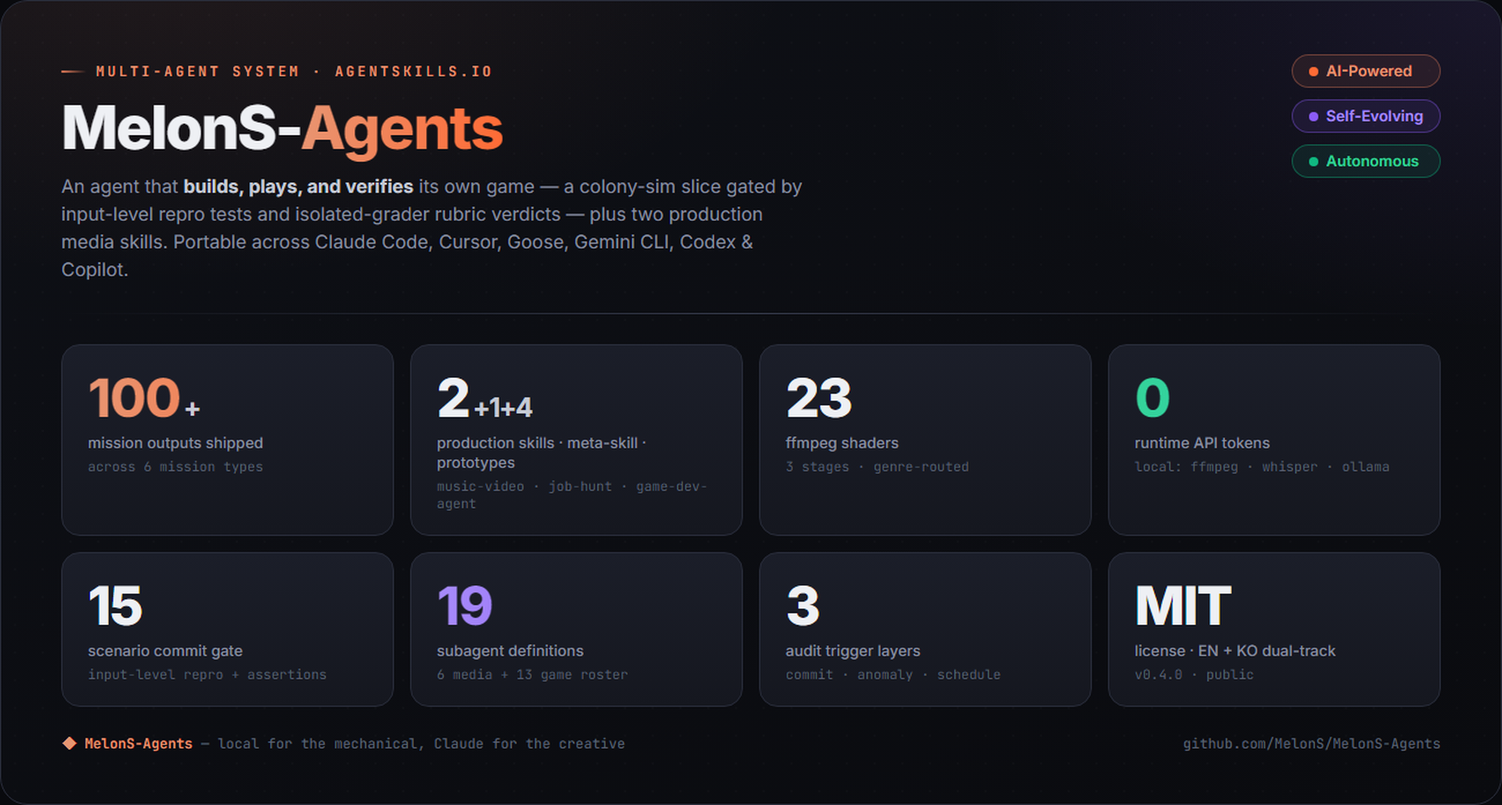
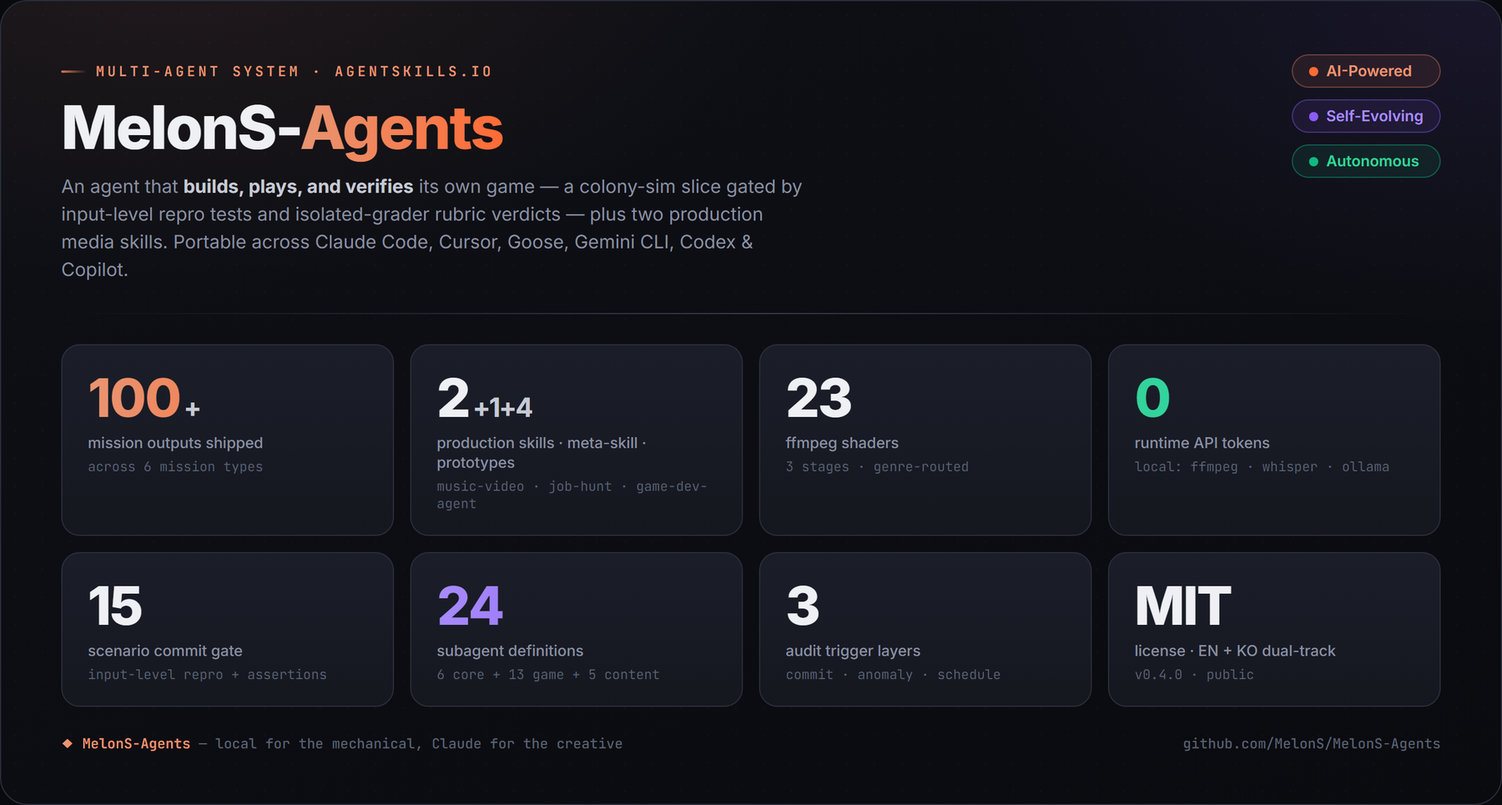
docs(readme): correct stale counts + surface content-shorts (EN+KO+site)
The 2026-07-01 README rewrite missed the content-shorts pipeline added in
the prior commit, leaving several stale numbers. This pass ground-truths
every claim against the repo.

- subagent count 19 -> 24 in README, site, and the regenerated hero-stats
  image (EN+KO). The 5 content-shorts team agents (content-director,
  research/production/legal/release-team) existed but were never counted.
- add an In-development row for the content-shorts pipeline (info/news/idol,
  4-team legal-gated) to "What works today" + a Documentation-table link.
- music-video grades: "seven" -> six (the 7th profile is a neutral no-op).
- auditor design-note now names all 3 triggers (L1 post-commit hook /
  L2 15-min poll / L3 daily 03:00), consistent with the "3 audit layers".
- retarget the "known gaps" link: known-limitations.md is a one-item
  resolved log, not a tradeoffs catalog -> point negatives/out-of-scope at
  the game-prototype README and relabel the doc-table row.
- site: enrichment utilities 5 -> 4 (matched its own 4-item list).

Verified MATCH and left unchanged: 23 shaders, 15-scenario gate, 11 job
sources, 9 case studies, 2 production skills, 3 audit layers, opus/sonnet
routing.

diff --git a/site/index.ko.html b/site/index.ko.html
@@ -103,9 +103,9 @@
       <span class="sub">입력 레벨 재현 + 어서션</span>
     </li>
     <li>
-      <span class="num purple">19</span>
+      <span class="num purple">24</span>
       <span class="label">서브에이전트 정의</span>
-      <span class="sub">미디어 6 + 게임 로스터 13</span>
+      <span class="sub">코어 6 + 게임 13 + 콘텐츠 5</span>
     </li>
     <li>
       <span class="num fg">3</span>
@@ -191,7 +191,7 @@
   <p>스캐폴드는 범용입니다 — 모든 스킬을 한 가지 shape으로 강요하지 않습니다. 숏폼 영상이 v1 도메인이었고(결과물이 눈에 보이고 실패 모드가 빨리 잡힘), 현재 개발 포커스는 <strong>게임 트랙</strong>(위 PawnSim 만들고-검증 루프)으로 <code>game-dev-agent</code> 메타 스킬이 구동합니다. 오늘 프로덕션 미디어 스킬 2종이 올라가 있습니다: <strong>music-video</strong> 미션과 standalone <strong>job-hunt</strong> 스킬. 이전 미션들(<strong>faceless-short</strong> 내레이션, v1 <strong>highlight / shorts-batch</strong>)은 대체 경로로 트리에 남아 있습니다.</p>
 
   <figure class="diagram">
-    <img src="assets/visuals/01-hero-stats-ko.png" width="1800" height="965" alt="MelonS-Agents 한눈에 보기 포스터: 자기 콜로니심 게임을 만들고 플레이하고 검증하는 에이전트, Claude Code·Cursor·Goose·Gemini CLI·Codex·Copilot 간 이식 가능. 스탯 카드: 미션 출력 100+(6타입), 프로덕션 스킬 2 + 메타 스킬 1 + 프로토타입 4, ffmpeg 쉐이더 23, 런타임 API 토큰 0, 15시나리오 커밋 게이트, 서브에이전트 정의 19(미디어 6 + 게임 로스터 13), 감사 트리거 레이어 3, MIT 라이선스 / EN + KO 듀얼 트랙." loading="lazy" decoding="async">
+    <img src="assets/visuals/01-hero-stats-ko.png" width="1800" height="965" alt="MelonS-Agents 한눈에 보기 포스터: 자기 콜로니심 게임을 만들고 플레이하고 검증하는 에이전트, Claude Code·Cursor·Goose·Gemini CLI·Codex·Copilot 간 이식 가능. 스탯 카드: 미션 출력 100+(6타입), 프로덕션 스킬 2 + 메타 스킬 1 + 프로토타입 4, ffmpeg 쉐이더 23, 런타임 API 토큰 0, 15시나리오 커밋 게이트, 서브에이전트 정의 24(코어 6 + 게임 13 + 콘텐츠 5), 감사 트리거 레이어 3, MIT 라이선스 / EN + KO 듀얼 트랙." loading="lazy" decoding="async">
     <figcaption>시스템 한눈에 보기 — README · Overview</figcaption>
   </figure>
 
@@ -205,7 +205,7 @@
     <article class="card glow-gold">
       <h3>game-dev-agent (메타 스킬, Skill #3)</h3>
       <p>에디터 수작업 없이 게임 전체를 CLI 스캐폴딩하는 Unity 전용 에이전트입니다: 스프라이트 생성(32px 절차 아트), C# 시스템 스캐폴딩, Unity batchmode 씬 + 프리팹 생성, 밸런스 튜닝, 오디오 생성, 인게임 AI 디렉터. 이 에이전트가 경험적 검증 표면을 겸하는 <strong>프로토타입 스킬 4종</strong>을 구동합니다 — PawnSim(콜로니심 플래그십), 그리고 2D 물리 병합 퍼즐, 웨이브 생존 액션, 슬라이딩 타일 숫자 퍼즐 — 각각 앞 것보다 빠르게 만들어 "복리 가속" 가설을 테스트합니다.</p>
-      <p class="muted">게임 트랙은 6개 코어 미디어 파이프라인 에이전트 위에 13개 게임 도메인 서브에이전트(디렉터 / 디자이너 / 프로그래머 / 빌드 엔지니어 / QA / 아티스트 / 사운드 / 내러티브 / 스페셜리스트) 로스터를 따로 돌립니다 — <a href="https://github.com/MelonS/MelonS-Agents/tree/main/.claude/agents" target="_blank" rel="noopener">.claude/agents/</a>에 총 19개 에이전트 정의.</p>
+      <p class="muted">게임 트랙은 6개 코어 미디어 파이프라인 에이전트 위에 13개 게임 도메인 서브에이전트(디렉터 / 디자이너 / 프로그래머 / 빌드 엔지니어 / QA / 아티스트 / 사운드 / 내러티브 / 스페셜리스트) 로스터를, 그리고 content-shorts 파이프라인용 5개를 더 돌립니다 — <a href="https://github.com/MelonS/MelonS-Agents/tree/main/.claude/agents" target="_blank" rel="noopener">.claude/agents/</a>에 총 24개 에이전트 정의.</p>
     </article>
   </div>
 
@@ -314,7 +314,7 @@
         <li class="chip"><b>5,000+</b> raw → <b>~200</b> 매칭</li>
         <li class="chip">Shape B · standalone <code>curl+jq</code></li>
       </ul>
-      <p class="muted">Skill #2, standalone, v2 짧은 키워드 UX. 70개 테스트; <code>JH_*_LIVE</code> 플래그 뒤의 enrichment 유틸 5종. 스펙: <a href="https://github.com/MelonS/MelonS-Agents/tree/main/skills/job-hunt" target="_blank" rel="noopener">skills/job-hunt/</a></p>
+      <p class="muted">Skill #2, standalone, v2 짧은 키워드 UX. 70개 테스트; <code>JH_*_LIVE</code> 플래그 뒤의 enrichment 유틸 4종. 스펙: <a href="https://github.com/MelonS/MelonS-Agents/tree/main/skills/job-hunt" target="_blank" rel="noopener">skills/job-hunt/</a></p>
     </article>
 
     <article class="card skill-card glow-gold">
@@ -357,7 +357,7 @@
       <p>별도 shape 스킬: standalone(미션 라우팅 없음), v2 짧은 키워드 UX, agentskills.io 호환. <code>--seed "Problem Solver"</code>를 넘기면 오케스트레이터가 26 동의어 role family(Forward Deployed Engineer / Applied AI Engineer / Generalist / Founding Engineer / …)로 확장한 뒤 KR 잡보드(사람인 / 잡코리아 / 원티드 / 프로그래머스)에서 fetch합니다. 라이브 실행은 <strong>5,000+ raw 공고를 ~200 매칭으로</strong> 중복 제거합니다.</p>
       <ul>
         <li><b>소스 플러그인 11개</b>(키 없이 라이브 5, 키 게이팅 2, mock-fallback 4) — 기본은 전부 mock-fallback; 플러그인별 라이브 HTTP는 <code>JH_<i>SOURCE</i>_LIVE=1</code> 뒤.</li>
-        <li><b>enrichment 유틸 5종</b>(fit-score / cover-letter / company-research / interview-prep) — 공고별 Claude 호출은 <code>JH_<i>TOOL</i>_LIVE=1</code> 뒤.</li>
+        <li><b>enrichment 유틸 4종</b>(fit-score / cover-letter / company-research / interview-prep) — 공고별 Claude 호출은 <code>JH_<i>TOOL</i>_LIVE=1</code> 뒤.</li>
         <li><b>테스트 70개</b> — smoke + 엣지케이스 + JSON 스키마 검증. EN + KO 워크스루.</li>
       </ul>
       <p class="muted">퀵스타트: <code>skills/job-hunt/scripts/run.sh --seed "Problem Solver" --dry-run</code>. 레퍼런스 다이제스트: <a href="https://github.com/MelonS/MelonS-Agents/blob/main/docs/samples/job-hunt-digest-mock.md" target="_blank" rel="noopener">docs/samples/job-hunt-digest-mock.md</a>.</p>

diff --git a/site/index.html b/site/index.html
@@ -96,9 +96,9 @@
       <span class="sub">input-level repro + assertions</span>
     </li>
     <li>
-      <span class="num purple">19</span>
+      <span class="num purple">24</span>
       <span class="label">subagent definitions</span>
-      <span class="sub">6 media + 13 game roster</span>
+      <span class="sub">6 core + 13 game + 5 content</span>
     </li>
     <li>
       <span class="num fg">3</span>
@@ -184,7 +184,7 @@
   <p>The scaffold is general-purpose — it doesn't force every skill through one shape. Short-form video was the v1 domain (the deliverable is visually verifiable and failure modes are quick to catch); the current development focus is the <strong>game track</strong> (the PawnSim build-and-verify loop above), driven by a <code>game-dev-agent</code> meta-skill. Two production media skills ship today: the <strong>music-video</strong> mission and the standalone <strong>job-hunt</strong> skill. Earlier missions (<strong>faceless-short</strong> narration, v1 <strong>highlight / shorts-batch</strong>) remain in the tree as alternate paths.</p>
 
   <figure class="diagram">
-    <img src="assets/visuals/01-hero-stats.png" width="1800" height="965" alt="MelonS-Agents system-at-a-glance poster: an agent that builds, plays, and verifies its own colony-sim game, portable across Claude Code, Cursor, Goose, Gemini CLI, Codex and Copilot. Stat cards: 100+ mission outputs across 6 types, 2 production skills + 1 meta-skill + 4 prototypes, 23 ffmpeg shaders, 0 runtime API tokens, 15-scenario commit gate, 19 subagent definitions (6 media + 13 game roster), 3 audit trigger layers, MIT license / EN + KO dual-track." loading="lazy" decoding="async">
+    <img src="assets/visuals/01-hero-stats.png" width="1800" height="965" alt="MelonS-Agents system-at-a-glance poster: an agent that builds, plays, and verifies its own colony-sim game, portable across Claude Code, Cursor, Goose, Gemini CLI, Codex and Copilot. Stat cards: 100+ mission outputs across 6 types, 2 production skills + 1 meta-skill + 4 prototypes, 23 ffmpeg shaders, 0 runtime API tokens, 15-scenario commit gate, 24 subagent definitions (6 core + 13 game + 5 content), 3 audit trigger layers, MIT license / EN + KO dual-track." loading="lazy" decoding="async">
     <figcaption>The system at a glance — README · Overview</figcaption>
   </figure>
 
@@ -198,7 +198,7 @@
     <article class="card glow-gold">
       <h3>game-dev-agent (meta-skill, Skill #3)</h3>
       <p>A Unity-focused agent that CLI-scaffolds a whole game with no manual Editor work: sprite generation (32px procedural art), C# system scaffolding, scene + prefab generation via Unity batchmode, balance tuning, audio generation, and an in-game AI Director. It drives <strong>four prototype skills</strong> that double as its empirical validation surface — PawnSim (colony-sim flagship), plus a 2D physics-merge puzzle, a wave-survival action game, and a sliding-tile number puzzle — each built faster than the last, testing the "compounding speedup" hypothesis.</p>
-      <p class="muted">The game track runs a separate roster of 13 game-domain sub-agents (director / designer / programmer / build-engineer / QA / artist / sound / narrative / specialists) on top of the 6 core media-pipeline agents — 19 agent definitions total in <a href="https://github.com/MelonS/MelonS-Agents/tree/main/.claude/agents" target="_blank" rel="noopener">.claude/agents/</a>.</p>
+      <p class="muted">The game track runs a separate roster of 13 game-domain sub-agents (director / designer / programmer / build-engineer / QA / artist / sound / narrative / specialists) on top of the 6 core media-pipeline agents, plus 5 for the content-shorts pipeline — 24 agent definitions total in <a href="https://github.com/MelonS/MelonS-Agents/tree/main/.claude/agents" target="_blank" rel="noopener">.claude/agents/</a>.</p>
     </article>
   </div>
 
@@ -307,7 +307,7 @@
         <li class="chip"><b>5,000+</b> raw → <b>~200</b> matches</li>
         <li class="chip">Shape B · standalone <code>curl+jq</code></li>
       </ul>
-      <p class="muted">Skill #2, standalone, v2 short-keyword UX. 70 tests; 5 enrichment utilities behind <code>JH_*_LIVE</code> flags. Spec: <a href="https://github.com/MelonS/MelonS-Agents/tree/main/skills/job-hunt" target="_blank" rel="noopener">skills/job-hunt/</a></p>
+      <p class="muted">Skill #2, standalone, v2 short-keyword UX. 70 tests; 4 enrichment utilities behind <code>JH_*_LIVE</code> flags. Spec: <a href="https://github.com/MelonS/MelonS-Agents/tree/main/skills/job-hunt" target="_blank" rel="noopener">skills/job-hunt/</a></p>
     </article>
 
     <article class="card skill-card glow-gold">
@@ -350,7 +350,7 @@
       <p>A separate-shape skill: standalone (no missions-routed pipeline), v2 short-keyword UX, agentskills.io-compliant. Pass <code>--seed "Problem Solver"</code> and the orchestrator expands to a 26-synonym role family (Forward Deployed Engineer / Applied AI Engineer / Generalist / Founding Engineer / …) before fetching from KR job boards (사람인 / 잡코리아 / 원티드 / 프로그래머스). A live run de-dups <strong>5,000+ raw postings down to ~200 matches</strong>.</p>
       <ul>
         <li><b>11 source plugins</b> (5 live-ready without a key, 2 key-gated, 4 mock-fallback) — all mock-fallback by default; live HTTP per-plugin behind <code>JH_<i>SOURCE</i>_LIVE=1</code>.</li>
-        <li><b>5 enrichment utilities</b> (fit-score / cover-letter / company-research / interview-prep) — per-posting Claude calls behind <code>JH_<i>TOOL</i>_LIVE=1</code>.</li>
+        <li><b>4 enrichment utilities</b> (fit-score / cover-letter / company-research / interview-prep) — per-posting Claude calls behind <code>JH_<i>TOOL</i>_LIVE=1</code>.</li>
         <li><b>70 tests</b> — smoke + edge-case + JSON-schema validation. EN + KO walkthroughs.</li>
       </ul>
       <p class="muted">Quickstart: <code>skills/job-hunt/scripts/run.sh --seed "Problem Solver" --dry-run</code>. Reference digest at <a href="https://github.com/MelonS/MelonS-Agents/blob/main/docs/samples/job-hunt-digest-mock.md" target="_blank" rel="noopener">docs/samples/job-hunt-digest-mock.md</a>.</p>

diff --git a/README.ko.md b/README.ko.md
@@ -6,7 +6,7 @@
 
 **콜로니심 게임을 직접 만들고 — 그걸 플레이해서 자기 작업을 검증하는 AI 에이전트.**  실제 플레이어 클릭을 합성해 각 클릭이 (단지 클릭이 도달한 게 아니라) 실제로 게임 상태를 바꿨는지 어서트하고, 길게 무인으로 돌린 소크는 스크린샷과 로그만 보고 — 작성자의 의도는 절대 보지 않고 — 판정하는 별도 서브에이전트가 채점합니다.
 
-이 자기 검증 루프가 MelonS-Agents 의 척추입니다 — [Claude Code](https://docs.anthropic.com/claude-code) 로 구동되는 멀티 에이전트 시스템.  오늘 세 트랙이 돌아갑니다: 콜로니심 **PawnSim**(Windows + Unity, *개발 중*), 그리고 두 프로덕션 파이프라인 — **music-video** 메이커(음악 → 60초 9:16 쇼츠, Mac/Linux 에서 ~60초)와 **job-hunt** 다이제스트(키워드 하나 → 중복 제거된 한국 채용공고 요약, ~5초).  로컬 오픈소스 도구(ffmpeg / whisper.cpp / ollama / aubio)가 기계적 작업을 하고 Claude 는 오케스트레이션 + 창작 판단을 맡아 — 미션당 **런타임 API 토큰 0개**.  첫날부터 영어 + 한국어.
+이 자기 검증 루프가 MelonS-Agents 의 척추입니다 — [Claude Code](https://docs.anthropic.com/claude-code) 로 구동되는 멀티 에이전트 시스템.  콜로니심 **PawnSim**(Windows + Unity, *개발 중*)이 쇼케이스이고, 두 미디어 파이프라인은 이미 실제 결과물을 출하합니다 — **music-video** 메이커(음악 → 60초 9:16 쇼츠, Mac/Linux 에서 ~60초)와 **job-hunt** 다이제스트(키워드 하나 → 중복 제거된 한국 채용공고 요약, ~5초) — 여기에 세 번째로 저작권 검수를 거치는 **content-shorts** 파이프라인이 초기 개발 중입니다.  로컬 오픈소스 도구(ffmpeg / whisper.cpp / ollama / aubio)가 기계적 작업을 하고 Claude 는 오케스트레이션 + 창작 판단을 맡아 — 미션당 **런타임 API 토큰 0개**.  첫날부터 영어 + 한국어.
 
 [![main-protection](https://github.com/MelonS/MelonS-Agents/actions/workflows/main-protection.yml/badge.svg?branch=main)](https://github.com/MelonS/MelonS-Agents/actions/workflows/main-protection.yml)
 ![GitHub last commit](https://img.shields.io/github/last-commit/MelonS/MelonS-Agents?style=flat-square)
@@ -20,7 +20,7 @@
 
 </div>
 
-![MelonS-Agents — 숫자로 보기: 출력 100+, 프로덕션 스킬 2개, 쉐이더 23개, 런타임 API 토큰 0개, 15시나리오 게이트, 서브에이전트 19개, 감사 레이어 3개, MIT](docs/visuals/01-hero-stats-ko.png)
+![MelonS-Agents — 숫자로 보기: 출력 100+, 프로덕션 스킬 2개, 쉐이더 23개, 런타임 API 토큰 0개, 15시나리오 게이트, 서브에이전트 24개, 감사 레이어 3개, MIT](docs/visuals/01-hero-stats-ko.png)
 
 ## 지금 무엇이 되는가
 
@@ -29,6 +29,7 @@
 | **music-video** | 음악 → 60초 9:16 쇼츠 (비트 정렬 컷, 빈티지 ffmpeg 쉐이더) | 프로덕션\* | ✅ Mac/Linux — `./scripts/first-touch.sh`, ~60초 |
 | **job-hunt** | 시드 키워드 하나 → 중복 제거된 한국 채용공고 다이제스트 (소스 11개) | 프로덕션\* | ✅ ~5초, 네트워크·키 불필요 |
 | **PawnSim** · `game-dev-agent` 가 제작 | 자기 검증형 콜로니심 게임 프로토타입 | 개발 중 | ⚠ Windows + Unity 6000.0.75f1 |
+| **content-shorts** · 4팀 법률 게이트 파이프라인이 제작 | 주제 → 출처 확보·저작권 검수된 9:16 쇼츠 (정보/뉴스/아이돌 포맷) | 개발 중 | ⚠ end-to-end 작동(2026-07-01), Pexels 키 필요 |
 | **product-cf** | 제품 사진 → CF 스타일 쇼츠 | 보류 | ❌ 정직한 부정 결론으로 보류 |
 
 <sub>\*"프로덕션" = 정해진 주기로 실제 결과물을 출하 (이 둘이 핵심 카운트).  `game-dev-agent` 는 PawnSim 을 만드는 메타 스킬 — PawnSim 이 출하 주기에 도달하면 프로덕션 카운트로 승격됩니다.</sub>
@@ -68,13 +69,13 @@ Pexels 가입 없음, Suno 왕복 없음, `.env` 편집 없음 — 마법사가 
 
 ![2026-05-22 noir-detective 렌더의 5초 애니메이션 프리뷰 — 9:16 세로 쇼츠, 스모키 바 인테리어, pink-magenta rnb_low_key 그레이드 프로필의 파이프를 문 수염 남자.  phrase-aware 쉐이더 + 장르별 컬러 그레이드가 평범한 Pexels B-roll 을 장르 코드가 입혀진 룩으로 변환](docs/demo/music-video-noir-detective-2026-05-24-preview.gif)
 
-음악 → 음악이 메인 오디오인 9:16 쇼츠: 비트 정렬 컷, onset 정렬 글리치 마이크로 에디트, 그리고 일곱 가지 장르별 컬러 그레이드 중 하나가 평범한 스톡 B-roll 을 장르 코드가 입혀진 룩으로 만듭니다.  2026-05-17 에 이전의 내레이션 기반 포맷을 밀어내고 채택됐습니다.  전체 파이프라인 — 23 쉐이더, 장르 카탈로그, v1→v6 진화: [`docs/music-video-pipeline-reference.md`](docs/music-video-pipeline-reference.md).
+음악 → 음악이 메인 오디오인 9:16 쇼츠: 비트 정렬 컷, onset 정렬 글리치 마이크로 에디트, 그리고 여섯 가지 장르별 컬러 그레이드(+ 중립 패스스루) 중 하나가 평범한 스톡 B-roll 을 장르 코드가 입혀진 룩으로 만듭니다.  2026-05-17 에 이전의 내레이션 기반 포맷을 밀어내고 채택됐습니다.  전체 파이프라인 — 23 쉐이더, 장르 카탈로그, v1→v6 진화: [`docs/music-video-pipeline-reference.md`](docs/music-video-pipeline-reference.md).
 
 ## 아키텍처
 
 ![3-shape 스킬 모델 — Shape A 미션 라우팅 5에이전트 파이프라인, Shape B 독립형, Shape ? 미래 스킬](docs/visuals/05-three-shapes-ko.png)
 
-시스템은 모든 스킬을 하나의 형태로 강제하지 않습니다.  **Shape A** 는 5에이전트 미션 파이프라인(orchestrator + planner / resourcer / editor / qa)으로 라우팅하고, **Shape B** 는 planner/qa 단계가 거의 빌 때 쓰는 독립 스크립트입니다.  서브에이전트는 대화 기록을 공유하지 않고 — 커밋된 파일(`plan.md` / `MANIFEST.md` / `qa-report.md`)로 핸드오프하므로 각자의 컨텍스트와 비용이 제한됩니다.  역할별 모델 라우팅(planner/resourcer = opus, editor/qa = sonnet)과 비용 방화벽이 런타임 API 토큰을 0으로 유지합니다.  `.claude/agents/` 에는 정의 **19개**(미디어 6 + 게임 13)가 있습니다.  전체 데이터 흐름 맵 + 게임 프로토타입 빌드 체인: [`docs/architecture.md`](docs/architecture.md).
+시스템은 모든 스킬을 하나의 형태로 강제하지 않습니다.  **Shape A** 는 5에이전트 미션 파이프라인(orchestrator + planner / resourcer / editor / qa)으로 라우팅하고, **Shape B** 는 planner/qa 단계가 거의 빌 때 쓰는 독립 스크립트입니다.  서브에이전트는 대화 기록을 공유하지 않고 — 커밋된 파일(`plan.md` / `MANIFEST.md` / `qa-report.md`)로 핸드오프하므로 각자의 컨텍스트와 비용이 제한됩니다.  역할별 모델 라우팅(planner/resourcer = opus, editor/qa = sonnet)과 비용 방화벽이 런타임 API 토큰을 0으로 유지합니다.  `.claude/agents/` 에는 정의 **24개**(코어 6 + 게임 로스터 13 + 콘텐츠 파이프라인 팀 5)가 있습니다.  전체 데이터 흐름 맵 + 게임 프로토타입 빌드 체인: [`docs/architecture.md`](docs/architecture.md).
 
 ## 자율성 신호 — 주장이 아니라 측정
 
@@ -89,13 +90,13 @@ Pexels 가입 없음, Suno 왕복 없음, `.env` 편집 없음 — 마법사가 
 - **`product-cf` 는 보류** — 실제 부정 결론 때문입니다.  무료 / 로컬로 "진짜 3D 처럼 만들기"(depth-parallax, 실린더 래핑 턴테이블, 로컬 image-to-video) 접근은 16 GB 머신에서 진짜 CF 품질 기준을 넘지 못했습니다; 설득력 있는 결과엔 유료 클라우드 image-to-video 또는 더 큰 GPU 가 필요합니다.  트리에 게이트 오프 상태로 보존, 결정 보류.
 - **셀 셰이딩은 의도적으로 연기** — ffmpeg 의 한계가 어디인지 아는 것이 결과를 가짜로 만드는 것보다 낫습니다.
 
-더 많은 트레이드오프와 알려진 갭: [`docs/known-limitations.md`](docs/known-limitations.md).
+더 많은 부정 결과와 보류 범위: [`skills/game-prototype/README.md`](skills/game-prototype/README.md)(정직한 검증 상태 + out-of-scope).  해결된 이슈 로그(예: Homebrew ffmpeg/libass 분리): [`docs/known-limitations.md`](docs/known-limitations.md).
 
 <details>
 <summary><b>설계 노트 — 흔한 에이전트 데모와 다른 선택들</b></summary>
 
 - **결과 레이어 vs 작업 큐, 분리해서 유지.**  [`docs/goal.md`](docs/goal.md) 는 활성 목표를 구체적 산출물로 담고, [`docs/roadmap.md`](docs/roadmap.md) 는 일 단위 작업 큐를 담습니다.  큐가 비었다 ≠ 목표 달성 — 이 분리는 과거 24시간 동안 큐가 0인 채 인프라 커밋 11개에 산출물 0개가 나왔던 사고 때문에 존재합니다.
-- **라이브 알림 표면을 가진 비대역(out-of-band) 감사기.**  [`auditor`](.claude/agents/auditor.md) 서브에이전트가 매일 03:00 에 `launchd` 로 돌며 레포 전체를 읽기 전용으로 훑고, 최신 판정이 non-CLEAN 일 때만 [`docs/audit/CURRENT-ALERT.md`](docs/audit/) 를 씁니다; 다음 세션은 목표를 잡기 전에 이를 읽어야 할 계약 의무가 있습니다.
+- **라이브 알림 표면을 가진 비대역(out-of-band) 감사기.**  [`auditor`](.claude/agents/auditor.md) 서브에이전트가 세 가지 트리거 — L1 post-commit 훅, L2 15분 이상감지 폴, L3 매일 03:00 베이스라인(`launchd`/`cron`) — 로 작동하며 레포 전체를 읽기 전용으로 훑고, 최신 판정이 non-CLEAN 일 때만 [`docs/audit/CURRENT-ALERT.md`](docs/audit/) 를 씁니다; 다음 세션은 목표를 잡기 전에 이를 읽어야 할 계약 의무가 있습니다.
 - **오케스트레이션과 실행 사이의 비용 방화벽.**  Anthropic 토큰은 오케스트레이션(Tier 1)에서만 쓰이고, 미션 실행(transcribe → select → render → QA)은 전부 로컬 도구로 돌아 토큰 0개입니다.
 - **상태 점검 프롬프트를 흡수하는 운영자 툴링.**  `scripts/doctor.sh`(Claude 없이 ~2초 헬스 체크), `scripts/statusline.sh`, `scripts/morning-brief.sh` 가 "지금 상태는 / 밤새 무슨 일이?"를 운영자가 타이핑하지 않아도 답합니다.  전체 카탈로그: [`docs/operator-tooling.md`](docs/operator-tooling.md).
 
@@ -150,7 +151,8 @@ python ../game-dev-agent/scripts/agent.py integrate --project unity-project --me
 | 엔지니어링 사례 연구 — 9개 인시던트, *문제 → 제약 → 결정 → 산출물* | [`docs/engineering-case-studies.ko.md`](docs/engineering-case-studies.ko.md) |
 | 아키텍처 + 전체 데이터 흐름 맵 | [`docs/architecture.md`](docs/architecture.md) |
 | music-video 파이프라인 레퍼런스 (쉐이더, 장르, env 변수) | [`docs/music-video-pipeline-reference.md`](docs/music-video-pipeline-reference.md) |
-| 알려진 한계 + 부정 결과 | [`docs/known-limitations.md`](docs/known-limitations.md) |
+| content-shorts 파이프라인 — 4팀 리서치→제작⇄법률→출시 | [`docs/content-shorts-pipeline.md`](docs/content-shorts-pipeline.md) |
+| 해결된 이슈 로그 (ffmpeg/libass 패키징 등) | [`docs/known-limitations.md`](docs/known-limitations.md) |
 | 비용 모델 — Anthropic vs 로컬 | [`docs/cost-model.md`](docs/cost-model.md) |
 | 플랫폼 / Windows 셋업 | [`docs/platform-windows.md`](docs/platform-windows.md) |
 | 운영 계약 — 자율 규칙 | [`docs/operator-contract.md`](docs/operator-contract.md) |

diff --git a/README.md b/README.md
@@ -6,7 +6,7 @@
 
 **An AI agent that builds a colony-sim game — then plays it to verify its own work.**  It synthesizes real player clicks, asserts each one actually changed the game state (not just that the click landed), and grades long unattended soaks with a separate sub-agent that judges only from screenshots and logs — never the author's intent.
 
-That self-verification loop is the spine of MelonS-Agents, a multi-agent system driven by [Claude Code](https://docs.anthropic.com/claude-code).  Three tracks run today: the colony-sim **PawnSim** (Windows + Unity, *in development*), plus two production pipelines — a **music-video** maker (a song in → a 60-second 9:16 short, ~60 s on Mac/Linux) and a **job-hunt** digest (one keyword → a deduplicated Korean job-board summary, ~5 s).  Local open-source tools (ffmpeg / whisper.cpp / ollama / aubio) do the mechanical work while Claude orchestrates and makes the creative calls — so a mission costs **zero runtime API tokens**.  English + Korean from day one.
+That self-verification loop is the spine of MelonS-Agents, a multi-agent system driven by [Claude Code](https://docs.anthropic.com/claude-code).  The colony-sim **PawnSim** (Windows + Unity, *in development*) is the showcase; two media pipelines already ship real deliverables — a **music-video** maker (a song in → a 60-second 9:16 short, ~60 s on Mac/Linux) and a **job-hunt** digest (one keyword → a deduplicated Korean job-board summary, ~5 s) — with a third, a copyright-reviewed **content-shorts** pipeline, in early development.  Local open-source tools (ffmpeg / whisper.cpp / ollama / aubio) do the mechanical work while Claude orchestrates and makes the creative calls — so a mission costs **zero runtime API tokens**.  English + Korean from day one.
 
 [![main-protection](https://github.com/MelonS/MelonS-Agents/actions/workflows/main-protection.yml/badge.svg?branch=main)](https://github.com/MelonS/MelonS-Agents/actions/workflows/main-protection.yml)
 ![GitHub last commit](https://img.shields.io/github/last-commit/MelonS/MelonS-Agents?style=flat-square)
@@ -20,7 +20,7 @@ That self-verification loop is the spine of MelonS-Agents, a multi-agent system 
 
 </div>
 
-![MelonS-Agents — by the numbers: 100+ outputs, 2 production skills, 23 shaders, 0 runtime API tokens, 15-scenario gate, 19 subagents, 3 audit layers, MIT](docs/visuals/01-hero-stats.png)
+![MelonS-Agents — by the numbers: 100+ outputs, 2 production skills, 23 shaders, 0 runtime API tokens, 15-scenario gate, 24 subagents, 3 audit layers, MIT](docs/visuals/01-hero-stats.png)
 
 ## What works today
 
@@ -29,6 +29,7 @@ That self-verification loop is the spine of MelonS-Agents, a multi-agent system 
 | **music-video** | a song in → a 60-second 9:16 short (beat-aligned cuts, vintage ffmpeg shaders) | Production\* | ✅ Mac/Linux — `./scripts/first-touch.sh`, ~60 s |
 | **job-hunt** | one seed keyword → a deduplicated Korean job-board digest (11 sources) | Production\* | ✅ ~5 s, no network or keys |
 | **PawnSim** · built by `game-dev-agent` | a self-tested colony-sim game prototype | In development | ⚠ Windows + Unity 6000.0.75f1 |
+| **content-shorts** · built by a 4-team legal-gated pipeline | a topic → a sourced, copyright-reviewed 9:16 short (info / news / idol formats) | In development | ⚠ runs end-to-end (2026-07-01); needs a Pexels key |
 | **product-cf** | a product photo → a CF-style short | Parked | ❌ parked on an honest negative finding |
 
 <sub>\*"Production" = ships a real deliverable on a schedule (these two are the load-bearing count).  `game-dev-agent` is the meta-skill that builds PawnSim; it graduates into the production count once PawnSim hits its deliverable schedule.</sub>
@@ -68,13 +69,13 @@ Colonists chop / mine / farm / cook / haul / build / research / fight under a ut
 
 ![5-second animated preview from the 2026-05-22 noir-detective render — 9:16 vertical short, smoky bar interior, bearded man with pipe in pink-magenta rnb_low_key grade profile, phrase-aware shaders + per-genre color grade transforming generic Pexels B-roll into a genre-coded look](docs/demo/music-video-noir-detective-2026-05-24-preview.gif)
 
-A song in → a music-as-primary-audio 9:16 short out: beat-aligned cuts, onset-aligned glitch micro-edits, and one of seven per-genre color grades shaping generic stock B-roll into a genre-coded look.  Picked over the earlier narration-driven format on 2026-05-17.  Full pipeline — 23 shaders, the genre catalog, the v1→v6 evolution: [`docs/music-video-pipeline-reference.md`](docs/music-video-pipeline-reference.md).
+A song in → a music-as-primary-audio 9:16 short out: beat-aligned cuts, onset-aligned glitch micro-edits, and one of six per-genre color grades (plus a neutral pass-through) shaping generic stock B-roll into a genre-coded look.  Picked over the earlier narration-driven format on 2026-05-17.  Full pipeline — 23 shaders, the genre catalog, the v1→v6 evolution: [`docs/music-video-pipeline-reference.md`](docs/music-video-pipeline-reference.md).
 
 ## Architecture
 
 ![The 3-shape skill model — Shape A missions-routed 5-agent pipeline, Shape B standalone, Shape ? future skills](docs/visuals/05-three-shapes.png)
 
-The system doesn't force every skill through one shape.  **Shape A** routes through a 5-agent mission pipeline (orchestrator + planner / resourcer / editor / qa); **Shape B** is a standalone script when planner/qa stages would be near-empty.  Subagents share no conversation history — they hand off through committed files (`plan.md` / `MANIFEST.md` / `qa-report.md`), so each one's context and cost stay bounded.  Per-role model routing (planner/resourcer = opus, editor/qa = sonnet) plus a cost firewall keep runtime API tokens at zero.  `.claude/agents/` holds **19** definitions (6 media + 13 game).  Full data-flow map + the game-prototype build chain: [`docs/architecture.md`](docs/architecture.md).
+The system doesn't force every skill through one shape.  **Shape A** routes through a 5-agent mission pipeline (orchestrator + planner / resourcer / editor / qa); **Shape B** is a standalone script when planner/qa stages would be near-empty.  Subagents share no conversation history — they hand off through committed files (`plan.md` / `MANIFEST.md` / `qa-report.md`), so each one's context and cost stay bounded.  Per-role model routing (planner/resourcer = opus, editor/qa = sonnet) plus a cost firewall keep runtime API tokens at zero.  `.claude/agents/` holds **24** definitions (6 core + 13 game roster + 5 content-pipeline teams).  Full data-flow map + the game-prototype build chain: [`docs/architecture.md`](docs/architecture.md).
 
 ## Autonomy signal — measured, not claimed
 
@@ -89,13 +90,13 @@ Documented negatives, kept in the open — because honest scoping is the credibi
 - **`product-cf` is parked** on a real negative finding.  The free / local "make it genuinely 3D" approaches (depth-parallax, cylinder-wrap turntable, local image-to-video) didn't clear a real-CF quality bar on a 16 GB machine; a convincing result needs paid cloud image-to-video or a bigger GPU.  Kept gated-off in the tree, decision pending.
 - **Cel-shading was deliberately deferred** — knowing where the ffmpeg wall is beats faking the result.
 
-More tradeoffs and known gaps: [`docs/known-limitations.md`](docs/known-limitations.md).
+More negatives and deferred scope: [`skills/game-prototype/README.md`](skills/game-prototype/README.md) (honest verification status + out-of-scope).  Resolved-issue log (e.g. the Homebrew ffmpeg/libass split): [`docs/known-limitations.md`](docs/known-limitations.md).
 
 <details>
 <summary><b>Design notes — choices that set this apart from a typical agent demo</b></summary>
 
 - **Outcome layer vs work queue, kept separate.**  [`docs/goal.md`](docs/goal.md) holds the active goal as a concrete deliverable; [`docs/roadmap.md`](docs/roadmap.md) holds the day-level queue.  An empty queue ≠ goal achieved — the split exists because an earlier 24-hour stretch produced 11 infra commits with the queue reading 0 open items and 0 actual outputs.
-- **Out-of-band auditor with a live alert surface.**  The [`auditor`](.claude/agents/auditor.md) subagent runs daily at 03:00 via `launchd`, walks the repo read-only, and writes [`docs/audit/CURRENT-ALERT.md`](docs/audit/) iff the latest verdict is non-CLEAN; the next session is contractually obligated to read it before picking up the goal.
+- **Out-of-band auditor with a live alert surface.**  The [`auditor`](.claude/agents/auditor.md) subagent fires on three triggers — an L1 post-commit hook, an L2 15-minute anomaly poll, and an L3 daily 03:00 baseline (via `launchd`/`cron`) — walks the repo read-only, and writes [`docs/audit/CURRENT-ALERT.md`](docs/audit/) iff the latest verdict is non-CLEAN; the next session is contractually obligated to read it before picking up the goal.
 - **Cost firewall between orchestration and execution.**  Anthropic tokens are spent only during orchestration (Tier 1); mission execution (transcribe → select → render → QA) runs entirely on local tools and costs zero tokens.
 - **Operator tooling that absorbs status-check prompts.**  `scripts/doctor.sh` (a Claude-free ~2-second health check), `scripts/statusline.sh`, and `scripts/morning-brief.sh` answer "what's the state / what happened overnight?" without the operator typing.  Full catalog: [`docs/operator-tooling.md`](docs/operator-tooling.md).
 
@@ -150,7 +151,8 @@ Full recipe collection for both media skills: [`EXAMPLES.md`](EXAMPLES.md).
 | Engineering case studies — 9 incidents, *problem → constraint → decision → artifact* | [`docs/engineering-case-studies.md`](docs/engineering-case-studies.md) |
 | Architecture + full data-flow map | [`docs/architecture.md`](docs/architecture.md) |
 | Music-video pipeline reference (shaders, genres, env vars) | [`docs/music-video-pipeline-reference.md`](docs/music-video-pipeline-reference.md) |
-| Known limitations + negative findings | [`docs/known-limitations.md`](docs/known-limitations.md) |
+| Content-shorts pipeline — four-team research→produce⇄legal→release | [`docs/content-shorts-pipeline.md`](docs/content-shorts-pipeline.md) |
+| Resolved-issue log (ffmpeg/libass packaging, etc.) | [`docs/known-limitations.md`](docs/known-limitations.md) |
 | Cost model — Anthropic vs local | [`docs/cost-model.md`](docs/cost-model.md) |
 | Platform / Windows setup | [`docs/platform-windows.md`](docs/platform-windows.md) |
 | Operator contract — autonomy rules | [`docs/operator-contract.md`](docs/operator-contract.md) |
